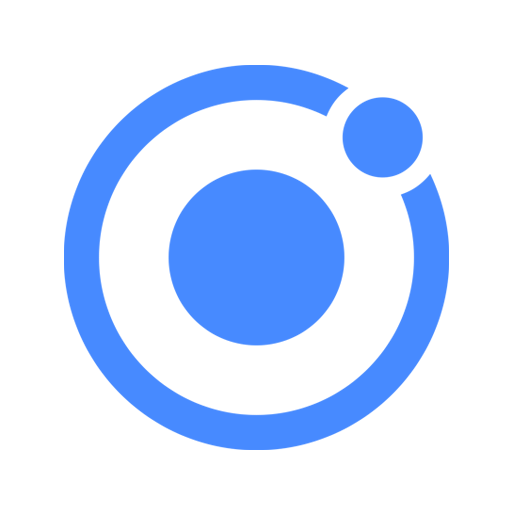
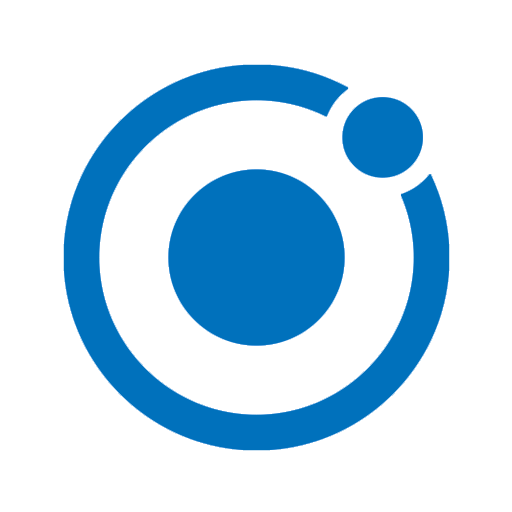
feat(global): create profil

Changed region(s): [[0.125, 0.125, 0.9062, 0.9062], [0.3125, 0.3125, 0.6875, 0.6875]]

diff --git a/src/pages/signup/signup.html b/src/pages/signup/signup.html
@@ -6,33 +6,93 @@
 
 </ion-header>
 
-
 <ion-content>
   <form (submit)="doSignup()">
     <ion-list>
-
+      <ion-item>
+        <ion-avatar item-start>
+          <img style="width: 80px; height: 80px;" src="/assets/img/marty-avatar.png">
+        </ion-avatar>
+      </ion-item>
       <ion-item>
         <ion-label fixed>{{ 'NAME' | translate }}</ion-label>
         <ion-input type="text" [(ngModel)]="account.name" name="name"></ion-input>
       </ion-item>
+      <ion-item>
+        <ion-label fixed>{{ 'FIRSTNAME' | translate }}</ion-label>
+        <ion-input type="text" [(ngModel)]="account.firstname" name="firstname"></ion-input>
+      </ion-item>
+      <ion-item>
+        <ion-label fixed>Poids (kg)</ion-label>
+        <ion-input type="number" [(ngModel)]="account.weight" name="weight"></ion-input>
+      </ion-item>
+      <ion-item>
+        <ion-label fixed>Taille (cm)</ion-label>
+        <ion-input type="number" [(ngModel)]="account.size" name="size"></ion-input>
+      </ion-item>
+      <ion-item>
+        <ion-label>Genre</ion-label>
+        <ion-select [(ngModel)]="account.gender" name="genre" (ngModelChange)="selectCategory($event)">
+          <ion-option [selected]="account.gender == 'm'" value="m">Homme</ion-option>
+          <ion-option [selected]="account.gender == 'f'" value="f">Femme</ion-option>
+        </ion-select>
+      </ion-item>
+      <ion-item>
+        <ion-label>Sports Favoris</ion-label>
+        <ion-select [(ngModel)]="sendSport" multiple="true" name="sport" okText="Valider" cancelText="Annuler">>
+          <ion-option *ngFor="let item of sports">{{item.name}}</ion-option>
+        </ion-select>
+      </ion-item>
+    </ion-list>
+
+
+      <ion-list  radio-group [(ngModel)]="sendTypeLife" name="typeLife">
+        <ion-list-header>
+          Mon style de vie
+        </ion-list-header>
+        <ion-item [hidden]="account.gender == 'f'" *ngFor="let type of typeMenLife">
+          <ion-label>{{type.name}} : {{type.calorie}}</ion-label>
+          <ion-radio> </ion-radio>
+        </ion-item>
+        <ion-item [hidden]="account.gender == 'm'" *ngFor="let type of typeWomenLife">
+          <ion-label>{{type.name}} : {{type.calorie}}</ion-label>
+          <ion-radio> </ion-radio>
+        </ion-item>
+      </ion-list>
+
+
+      <ion-list  radio-group [(ngModel)]="sendGoal" name="goal">
+        <ion-list-header>
+          Mon Objectif
+        </ion-list-header>
+        <ion-item *ngFor="let goal of goals" >
+          <ion-label>{{goal}}</ion-label>
+          <ion-radio> </ion-radio>
+        </ion-item>
+      </ion-list>
+
+    <ion-list>
 
       <ion-item>
         <ion-label fixed>{{ 'EMAIL' | translate }}</ion-label>
         <ion-input type="email" [(ngModel)]="account.email" name="email"></ion-input>
       </ion-item>
 
-      <!--
-      Want to add a Username? Here you go:
-
-      <ion-item>
-        <ion-label floating>Username</ion-label>
-        <ion-input type="text" [(ngModel)]="account.username" name="username"></ion-input>
-      </ion-item>
-      -->
-
       <ion-item>
         <ion-label fixed>{{ 'PASSWORD' | translate }}</ion-label>
         <ion-input type="password" [(ngModel)]="account.password" name="password"></ion-input>
+      </ion-item>
+    </ion-list>
+
+    <ion-list>
+      <ion-item>
+        <ion-label>Je veux recevoir des infos par mail de la part d'Auch'Sport</ion-label>
+        <ion-checkbox [(ngModel)]="newsletters" name="newsletters"></ion-checkbox>
+      </ion-item>
+
+      <ion-item>
+        <ion-label>J'accepte les conditions d'utilisation</ion-label>
+        <ion-checkbox [(ngModel)]="useTerm" name="useterm"></ion-checkbox>
       </ion-item>
 
       <div padding>

diff --git a/src/pages/signup/signup.ts b/src/pages/signup/signup.ts
@@ -1,25 +1,51 @@
-import { Component } from '@angular/core';
+import { Component, OnInit } from '@angular/core';
 import { NavController, ToastController } from 'ionic-angular';
 
 import { MainPage } from '../../pages/pages';
 import { User } from '../../providers/user';
 
 import { TranslateService } from '@ngx-translate/core';
+import { SportsService } from '../../services/sports.service';
 
 
 @Component({
   selector: 'page-signup',
   templateUrl: 'signup.html'
 })
-export class SignupPage {
+export class SignupPage implements OnInit {
   // The account fields for the login form.
   // If you're using the username field with or without email, make
   // sure to add it to the type
-  account: { name: string, email: string, password: string } = {
-    name: 'Test Human',
-    email: 'test@example.com',
-    password: 'test'
+  account: {name: string, firstname: string, weight:number, size:number, gender:string, email: string, password: string } = {
+    name: 'Morge',
+    firstname: 'Eric',
+    weight: 90,
+    size: 173,
+    gender: 'f',
+    email: 'emorge@auchan.fr',
+    password: 'test',
+
   };
+
+
+  public typesLife:any[];
+
+  sendSport:any[];
+  sendTypeLife:any[];
+  sendGoal:any[];
+
+  typeMenLife:any[];
+  typeWomenLife:any[];
+
+  goals:any[];
+
+  newsletters:boolean;
+  useTerm:boolean;
+  sports:any;
+
+
+  selectCategory(event) {
+  }
 
   // Our translated text strings
   private signupErrorString: string;
@@ -27,28 +53,69 @@ export class SignupPage {
   constructor(public navCtrl: NavController,
     public user: User,
     public toastCtrl: ToastController,
-    public translateService: TranslateService) {
+    public translateService: TranslateService,
+    private _sports: SportsService) {
 
     this.translateService.get('SIGNUP_ERROR').subscribe((value) => {
       this.signupErrorString = value;
-    })
+    });
+
+    this.sports = this._sports.getSportList();
+
+    this.typeMenLife = [
+      {
+        name: 'Sédentaire',
+        calorie: '2000 k/J'
+      },
+      {
+        name: 'Actif',
+        calorie: '2200 k/J'
+      },
+      {
+        name: 'Sportif',
+        calorie: '2400 k/J'
+      }
+    ];
+    this.typeWomenLife = [
+      {
+        name: 'Sédentaire',
+        calorie: '1800 k/J'
+      },
+      {
+        name: 'Actif',
+        calorie: '2000 k/J'
+      },
+      {
+        name: 'Sportif',
+        calorie: '2200 k/J'
+      }
+    ];
+
+    this.goals = ['Perte de Poids', 'Maintien', 'Prise de Poids'];
   }
+
+  ngOnInit(){
+    console.log(this.account.gender);
+  }
+
 
   doSignup() {
     // Attempt to login in through our User service
-    this.user.signup(this.account).subscribe((resp) => {
-      this.navCtrl.push(MainPage);
-    }, (err) => {
-
-      this.navCtrl.push(MainPage); // TODO: Remove this when you add your signup endpoint
-
-      // Unable to sign up
-      let toast = this.toastCtrl.create({
-        message: this.signupErrorString,
-        duration: 3000,
-        position: 'top'
-      });
-      toast.present();
-    });
+    this.navCtrl.push(MainPage);
+    // this.user.signup(this.account).subscribe((resp) => {
+    //   this.navCtrl.push(MainPage);
+    // }, (err) => {
+    //
+    //   this.navCtrl.push(MainPage);
+    // TODO: Remove this when you add your signup endpoint
+    //
+    //   // Unable to sign up
+    //   let toast = this.toastCtrl.create({
+    //     message: this.signupErrorString,
+    //     duration: 3000,
+    //     position: 'top'
+    //   });
+    //   toast.present();
+    // });
   }
 }

diff --git a/src/services/sports.service.ts b/src/services/sports.service.ts
@@ -1,0 +1,55 @@
+import { Injectable } from '@angular/core';
+
+@Injectable()
+
+export class SportsService {
+
+  constructor() {
+  }
+
+  getSportList() {
+    return  [
+      {
+        name:'Course à pied',
+        calorie:1000,
+        temps:'1 h'
+      },
+      {
+        name:'Natation',
+        calorie:500,
+        temps:'1 h'
+      },
+      {
+        name:'Marche',
+        calorie:300,
+        temps:'1 h'
+      },
+      {
+        name:'Foot',
+        calorie:900,
+        temps:'1 h'
+      },
+      {
+        name:'Tennis',
+        calorie:800,
+        temps:'1 h'
+      },
+      {
+        name:'Cross Fit',
+        calorie:1000,
+        temps:'1 h'
+      },
+      {
+        name:'Ping Pong',
+        calorie:900,
+        temps:'1 h'
+      }]
+  }
+
+}
+
+export interface Sports {
+  name: string;
+  calorie: number;
+  times: string;
+}

diff --git a/src/app/app.module.ts b/src/app/app.module.ts
@@ -31,6 +31,7 @@ import { StatusBar } from '@ionic-native/status-bar';
 import { TranslateModule, TranslateLoader } from '@ngx-translate/core';
 import { TranslateHttpLoader } from '@ngx-translate/http-loader';
 
+import { SportsService } from '../services/sports.service'
 // The translate loader needs to know where to load i18n files
 // in Ionic's static asset pipeline.
 export function HttpLoaderFactory(http: Http) {
@@ -104,6 +105,7 @@ export function provideSettings(storage: Storage) {
     GoogleMaps,
     SplashScreen,
     StatusBar,
+    SportsService,
     { provide: Settings, useFactory: provideSettings, deps: [Storage] },
     // Keep this to enable Ionic's runtime error handling during development
     { provide: ErrorHandler, useClass: IonicErrorHandler }

diff --git a/src/pages/welcome/welcome.scss b/src/pages/welcome/welcome.scss
@@ -1,12 +1,12 @@
 page-welcome {
   .splash-bg {
     position: relative;
-    background: url('../assets/img/splashbg.png') no-repeat transparent;
+    background: url('../assets/img/auchsportlogo.png') no-repeat transparent;
     background-size: cover;
     height: 45%;
     z-index: 1;
     background-repeat: repeat-x;
-    animation: animatedBackground 40s linear infinite;
+    animation: animatedBackground 5s linear infinite;
   }
 
   @keyframes animatedBackground {
@@ -17,7 +17,7 @@ page-welcome {
   .splash-info {
     position: relative;
     z-index: 2;
-    margin-top: -64px;
+    margin-top: 10px;
     text-align: center;
   }
   .splash-logo {

diff --git a/src/theme/variables.scss b/src/theme/variables.scss
@@ -13,7 +13,7 @@ $font-path: "../assets/fonts";
 // http://ionicframework.com/docs/v2/theming/overriding-ionic-variables/
 
 $text-color:        #000;
-$background-color:  #fff;
+$background-color: #f7f7f7;
 
 
 // Named Color Variables
@@ -25,11 +25,11 @@ $background-color:  #fff;
 // The "primary" color is the only required color in the map.
 
 $colors: (
-  primary:    #488aff,
-  secondary:  #32db64,
-  danger:     #f53d3d,
-  light:      #f4f4f4,
-  dark:       #222
+  primary: #0071BC ,
+  secondary:#ED1C24 ,
+  danger: #f53d3d,
+  light: #64d0dd,
+  dark:  #222
 );
 
 

diff --git a/src/app/app.component.ts b/src/app/app.component.ts
@@ -26,7 +26,7 @@ import { TranslateService } from '@ngx-translate/core'
   template: `<ion-menu [content]="content">
     <ion-header>
       <ion-toolbar>
-        <ion-title>Pages</ion-title>
+        <ion-title>Menu</ion-title>
       </ion-toolbar>
     </ion-header>
 
